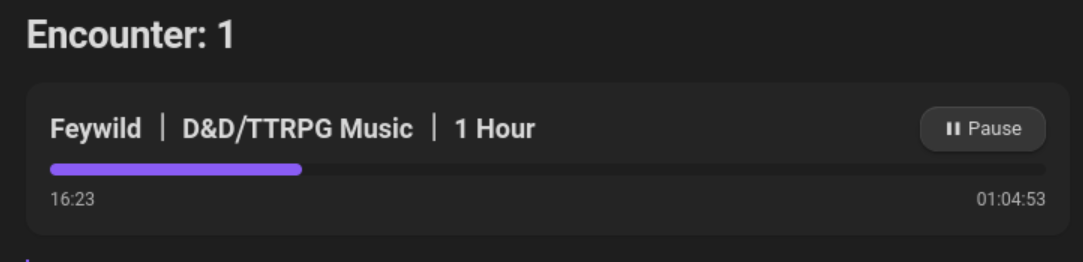
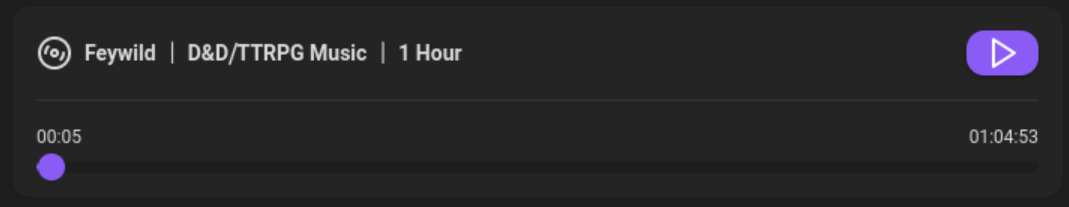
docs: update images

diff --git a/src/components/ProgressBar.svelte b/src/components/ProgressBar.svelte
@@ -39,7 +39,7 @@
     $: sliderStyle = `background: linear-gradient(to right, var(--color-accent) 0%, var(--color-accent) ${percent}%, var(--background-primary) ${percent}%, var(--background-primary) 100%)`;
 </script>
 
-<div class="flex flex-col gap-2">
+<div class="flex flex-col gap-2 progress-container">
     <div class="flex justify-between text-xs mt-2">
         <span>{formatTime(internalValue)}</span>
         <span>{formatTime(max)}</span>
@@ -59,6 +59,9 @@
 </div>
 
 <style>
+    .progress-container {
+        border-top: solid 1px var(--background-modifier-border);
+    }
     .progress-bar-slider {
         width: 100%;
         height: 8px;

diff --git a/src/components/KenkuTrackComponent.svelte b/src/components/KenkuTrackComponent.svelte
@@ -80,7 +80,7 @@
         class="flex flex-col gap-2 p-4 rounded-xl shadow"
         style="background-color: var(--background-primary-alt);"
     >
-        <div class="flex items-center gap-2 track-header pb-4">
+        <div class="flex items-center gap-2">
             <Disc3 />
             <div
                 class="text-sm font-semibold"
@@ -109,9 +109,3 @@
         {/if}
     </div>
 {/if}
-
-<style>
-    .track-header {
-        border-bottom: solid 1px var(--background-modifier-border);
-    }
-</style>
